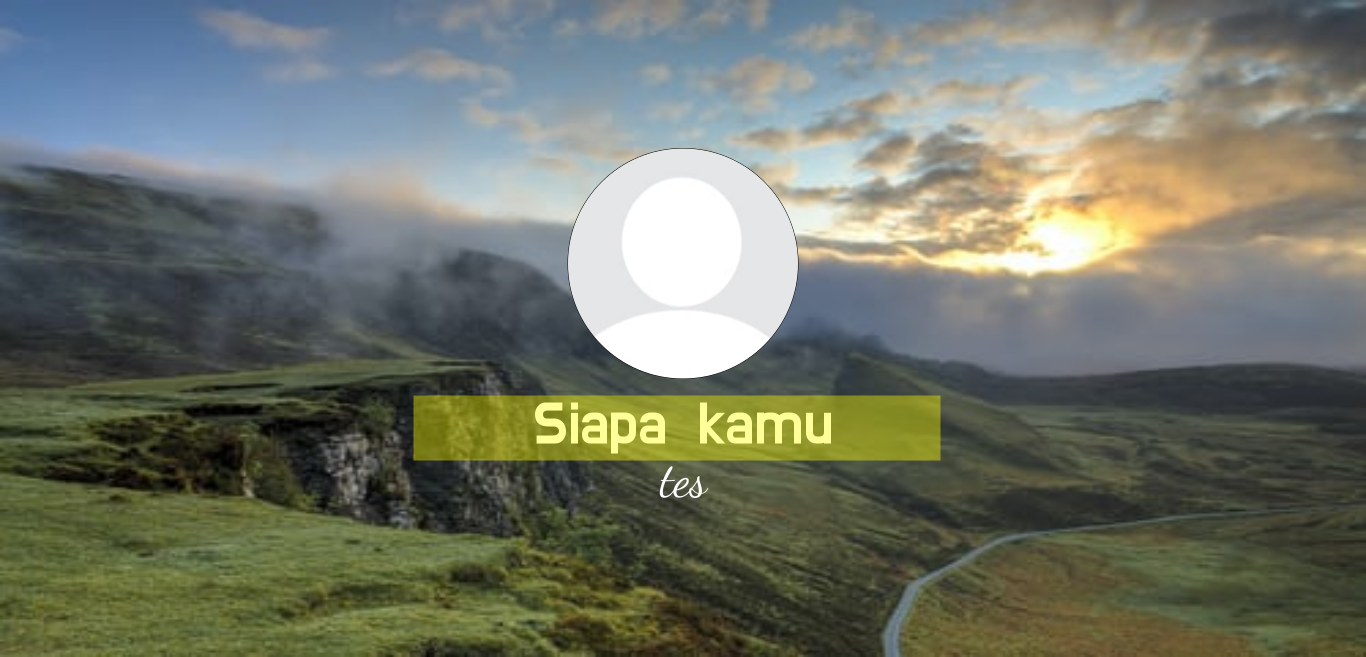
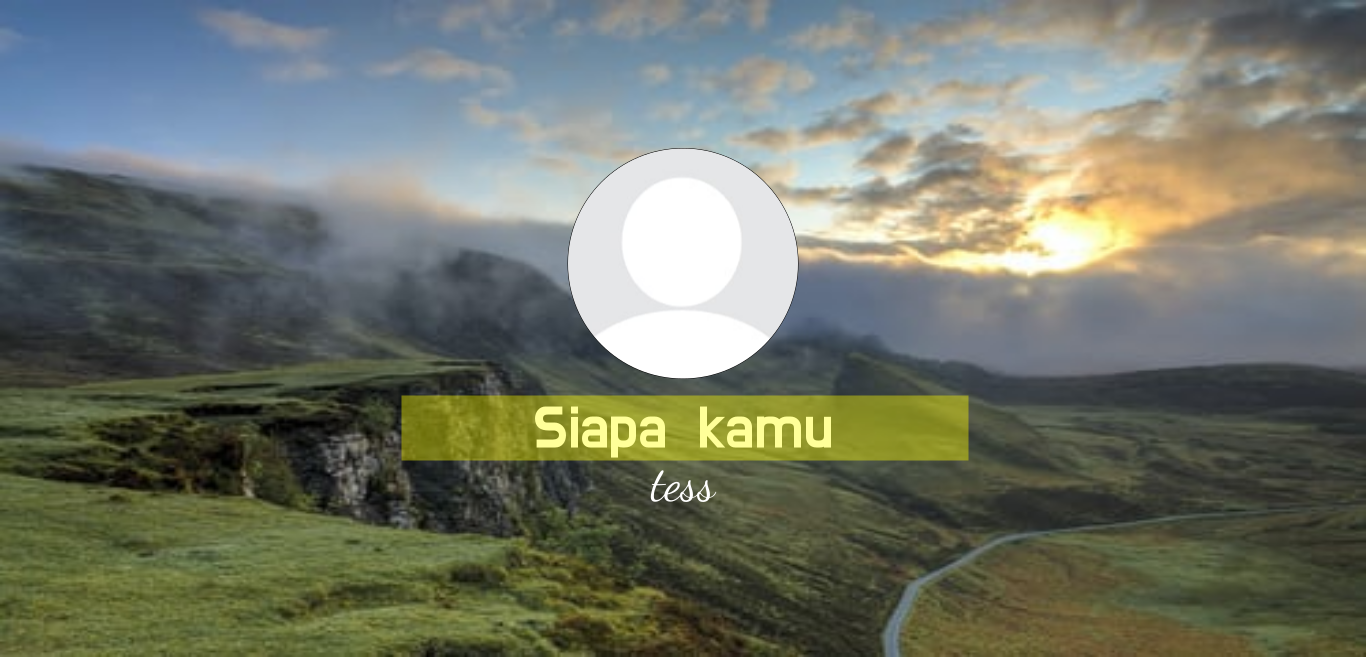
2 commit

diff --git a/index.js b/index.js
@@ -41,14 +41,14 @@ async function buatPhoto(text, group, avatar, background, mime, opt={}){
     ctx.textAlign = "center"
     let textnama = {
         width : (canvas.width / 2),
-        height : (canvas.height / 2) + 115
+        height : (canvas.height / 2) + 119
     }
     ctx.fillText(text, textnama.width, textnama.height);
     ctx.font = 'bold 49px "DancingScript"'
     ctx.fillText(group,textnama.width, textnama.height+52) 
     ctx.globalAlpha = "0.4";
     ctx.fillStyle = opt.styeBox||"#F0FFFF"
-    ctx.fillRect(((canvas.width/2)/2)+72, (canvas.height/2)+67, 527, 65);
+    ctx.fillRect(((canvas.width/2)/2)+60, (canvas.height/2)+67, 567, 65);
     return canvas.toBuffer(mime)
   }
 

diff --git a/test.js b/test.js
@@ -1,11 +1,10 @@
-const { cssColorToHex } = require('jimp');
 const {canvasWelcome} = require('./index')
 
 var a = new canvasWelcome('Hai');
 
 (async ()=>{
     a.setText("Siapa kamu")
-    a.setGroup("tes")
+    a.setGroup("tess")
     a.setBoxStyle('yellow')
     var buff = await a.save()
     require('fs').writeFileSync('./tes.png', buff)
